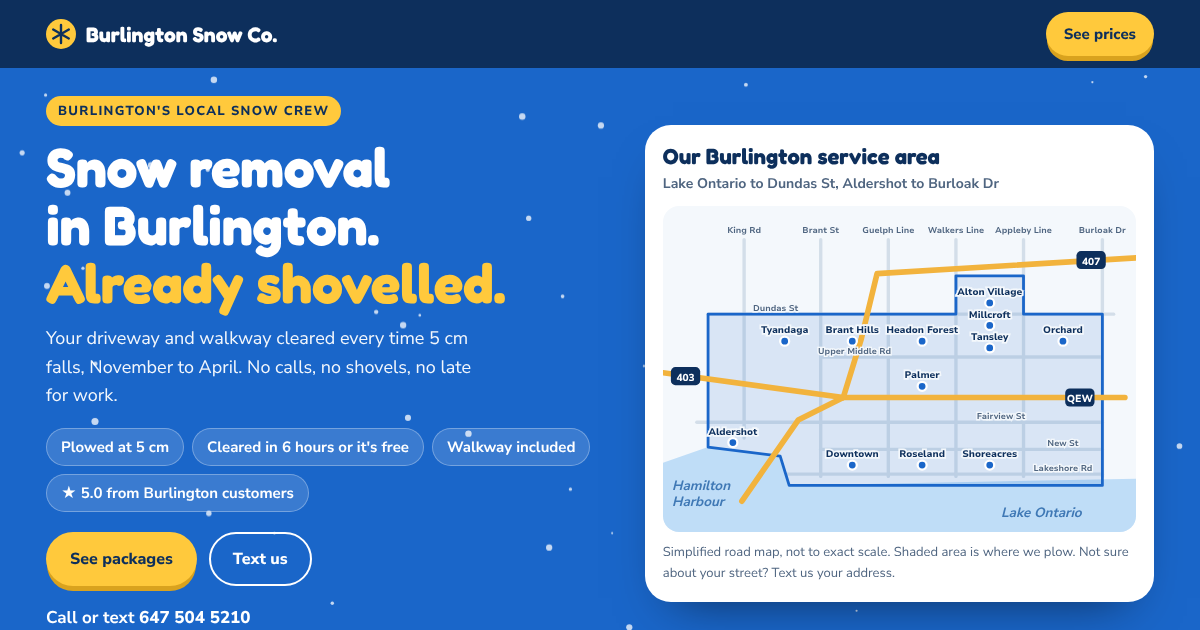
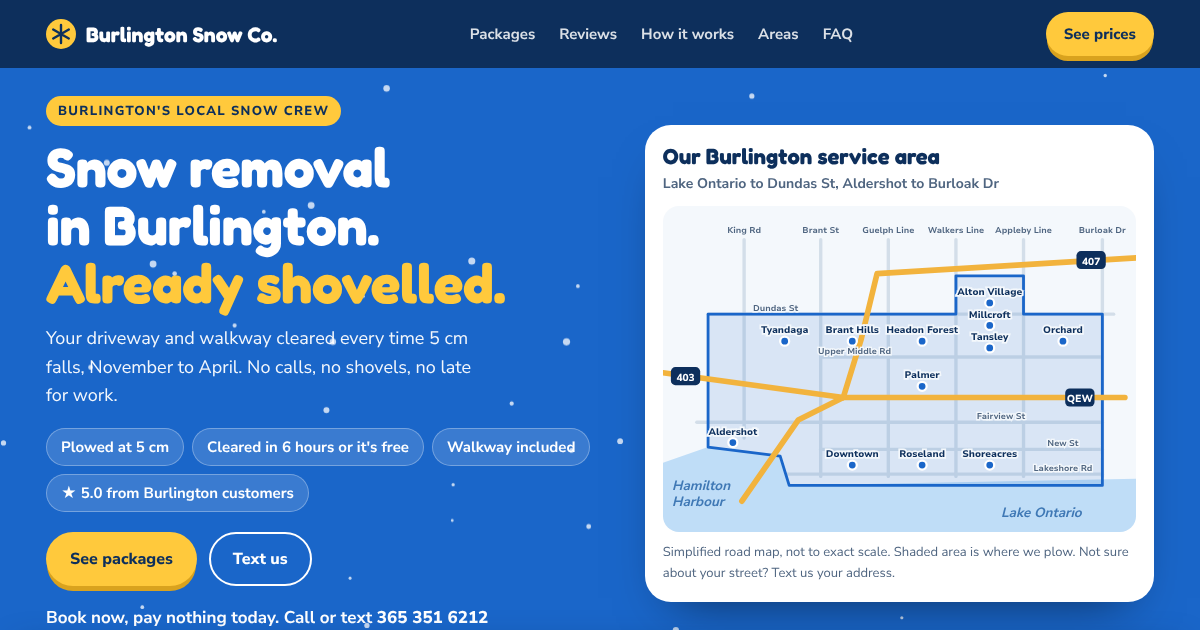
Switch to the business number 365 351 6212
Claude-Session: https://claude.ai/code/session_01EgcDJuKWegJa2CWbAiwTDC

Changed region(s): [[0.0308, 0.9651, 0.4008, 0.9952], [0.4008, 0.0302, 0.7092, 0.0603], [0.555, 0.9952, 0.5858, 1.0]]

diff --git a/index.html b/index.html
@@ -4,14 +4,14 @@
 <meta charset="utf-8">
 <meta name="viewport" content="width=device-width, initial-scale=1, viewport-fit=cover">
 <title>Snow Removal Burlington ON | From $499 a Season | Burlington Snow Co.</title>
-<meta name="description" content="Snow removal in Burlington, ON. Driveway and walkway cleared every time 5 cm falls, within 6 hours or it's free. Townhouse $499 a season. Text 647 504 5210.">
+<meta name="description" content="Snow removal in Burlington, ON. Driveway and walkway cleared every time 5 cm falls, within 6 hours or it's free. Townhouse $499 a season. Text 365 351 6212.">
 <meta name="robots" content="index, follow, max-image-preview:large">
 <link rel="canonical" href="https://burlingtonsnowco.ca/">
 <meta property="og:type" content="website">
 <meta property="og:locale" content="en_CA">
 <meta property="og:site_name" content="Burlington Snow Co.">
 <meta property="og:title" content="Burlington Snow Co. | Snow removal from $499 a season">
-<meta property="og:description" content="Driveway and walkway cleared every time 5 cm falls. Cleared in 6 hours or it's free. Text 647 504 5210.">
+<meta property="og:description" content="Driveway and walkway cleared every time 5 cm falls. Cleared in 6 hours or it's free. Text 365 351 6212.">
 <meta property="og:url" content="https://burlingtonsnowco.ca/">
 <meta property="og:image" content="https://burlingtonsnowco.ca/og-image.png">
 <meta property="og:image:width" content="1200">
@@ -26,7 +26,7 @@
 <link rel="icon" href="/logo.svg" type="image/svg+xml">
 <link rel="apple-touch-icon" href="/logo.png">
 <link rel="alternate" type="text/plain" href="/llms.txt" title="LLM summary">
-<script type="application/ld+json">{"@context": "https://schema.org", "@graph": [{"@type": ["LocalBusiness", "HomeAndConstructionBusiness"], "@id": "https://burlingtonsnowco.ca/#business", "name": "Burlington Snow Co.", "url": "https://burlingtonsnowco.ca/", "logo": "https://burlingtonsnowco.ca/logo.png", "image": "https://burlingtonsnowco.ca/og-image.png", "telephone": "+1-647-504-5210", "priceRange": "$499-$999 per season", "currenciesAccepted": "CAD", "description": "Seasonal residential snow removal in Burlington, Ontario. Driveway, walkway and front steps cleared every time 5 cm falls, November to April. Cleared within 6 hours of the snow stopping or the visit is free.", "address": {"@type": "PostalAddress", "addressLocality": "Burlington", "addressRegion": "ON", "addressCountry": "CA"}, "geo": {"@type": "GeoCoordinates", "latitude": 43.3255, "longitude": -79.799}, "areaServed": [{"@type": "City", "name": "Burlington", "containedInPlace": {"@type": "AdministrativeArea", "name": "Halton Region, Ontario"}}, {"@type": "Place", "name": "Aldershot, Burlington, ON"}, {"@type": "Place", "name": "Alton Village, Burlington, ON"}, {"@type": "Place", "name": "Brant Hills, Burlington, ON"}, {"@type": "Place", "name": "Downtown Burlington, Burlington, ON"}, {"@type": "Place", "name": "Headon Forest, Burlington, ON"}, {"@type": "Place", "name": "Millcroft, Burlington, ON"}, {"@type": "Place", "name": "Orchard, Burlington, ON"}, {"@type": "Place", "name": "Palmer, Burlington, ON"}, {"@type": "Place", "name": "Roseland, Burlington, ON"}, {"@type": "Place", "name": "Shoreacres, Burlington, ON"}, {"@type": "Place", "name": "Tansley, Burlington, ON"}, {"@type": "Place", "name": "Tyandaga, Burlington, ON"}], "openingHoursSpecification": [{"@type": "OpeningHoursSpecification", "dayOfWeek": ["Monday", "Tuesday", "Wednesday", "Thursday", "Friday", "Saturday", "Sunday"], "opens": "00:00", "closes": "23:59"}], "knowsAbout": ["Snow removal", "Driveway snow clearing", "Walkway shovelling", "Snow plowing", "Windrow clearing"], "hasOfferCatalog": {"@type": "OfferCatalog", "name": "Seasonal snow removal packages, driveway and walkway included", "itemListElement": [{"@type": "Offer", "itemOffered": {"@type": "Service", "serviceType": "Residential snow removal", "name": "Townhouse driveway and walkway, seasonal snow removal", "areaServed": "Burlington, ON"}, "price": "499", "priceCurrency": "CAD", "eligibleDuration": {"@type": "QuantitativeValue", "name": "November to April season"}}, {"@type": "Offer", "itemOffered": {"@type": "Service", "serviceType": "Residential snow removal", "name": "Single car driveway and walkway, seasonal snow removal", "areaServed": "Burlington, ON"}, "price": "649", "priceCurrency": "CAD", "eligibleDuration": {"@type": "QuantitativeValue", "name": "November to April season"}}, {"@type": "Offer", "itemOffered": {"@type": "Service", "serviceType": "Residential snow removal", "name": "Double car driveway and walkway, seasonal snow removal", "areaServed": "Burlington, ON"}, "price": "799", "priceCurrency": "CAD", "eligibleDuration": {"@type": "QuantitativeValue", "name": "November to April season"}}, {"@type": "Offer", "itemOffered": {"@type": "Service", "serviceType": "Residential snow removal", "name": "Large (5+ cars) driveway and walkway, seasonal snow removal", "areaServed": "Burlington, ON"}, "price": "999", "priceCurrency": "CAD", "eligibleDuration": {"@type": "QuantitativeValue", "name": "November to April season"}}]}}, {"@type": "WebSite", "@id": "https://burlingtonsnowco.ca/#website", "url": "https://burlingtonsnowco.ca/", "name": "Burlington Snow Co.", "inLanguage": "en-CA", "publisher": {"@id": "https://burlingtonsnowco.ca/#business"}}, {"@type": "FAQPage", "@id": "https://burlingtonsnowco.ca/#faq", "mainEntity": [{"@type": "Question", "name": "How much does snow removal cost in Burlington?", "acceptedAnswer": {"@type": "Answer", "text": "Our season plans run November to April and include the driveway, walkway and front steps. A townhouse is $499, a single car driveway is $649, a double car driveway is $799 and a large driveway (5 or more cars) is $999, plus HST. Commercial sites are quoted per site."}}, {"@type": "Question", "name": "Which parts of Burlington do you serve?", "acceptedAnswer": {"@type": "Answer", "text": "All of Burlington, from Aldershot to Burloak Drive and from Lake Ontario to Dundas Street, plus Alton Village. That includes Tyandaga, Brant Hills, Headon Forest, Millcroft, Tansley, Orchard, Palmer, Downtown, Roseland and Shoreacres."}}, {"@type": "Question", "name": "When do you come?", "acceptedAnswer": {"@type": "Answer", "text": "Every time 5 cm or more falls, November to April. You're cleared automatically. You don't need to call."}}, {"@type": "Question", "name": "What counts as the walkway?", "acceptedAnswer": {"@type": "Answer", "text": "The path from your driveway to your front door, plus the front steps."}}, {"@type": "Question", "name": "Do you offer any discounts?", "acceptedAnswer": {"@type": "Answer", "text": "Yes. Book with a neighbour on the same street and you each save $50 on your season plan. Just add their name and address when you book."}}, {"@type": "Question", "name": "Do you clear the snowbank the city plow leaves?", "acceptedAnswer": {"@type": "Answer", "text": "Yes. The end of your driveway is cleared on every visit."}}, {"@type": "Question", "name": "How do I pay?", "acceptedAnswer": {"@type": "Answer", "text": "Nothing is due when you book. Once we confirm your spot by text, you pay by Interac e-Transfer: half to start your season and half on January 1."}}, {"@type": "Question", "name": "Are you insured?", "acceptedAnswer": {"@type": "Answer", "text": "Yes. Burlington Snow Co. carries liability insurance for every property we clear."}}]}]}</script>
+<script type="application/ld+json">{"@context": "https://schema.org", "@graph": [{"@type": ["LocalBusiness", "HomeAndConstructionBusiness"], "@id": "https://burlingtonsnowco.ca/#business", "name": "Burlington Snow Co.", "url": "https://burlingtonsnowco.ca/", "logo": "https://burlingtonsnowco.ca/logo.png", "image": "https://burlingtonsnowco.ca/og-image.png", "telephone": "+1-365-351-6212", "priceRange": "$499-$999 per season", "currenciesAccepted": "CAD", "description": "Seasonal residential snow removal in Burlington, Ontario. Driveway, walkway and front steps cleared every time 5 cm falls, November to April. Cleared within 6 hours of the snow stopping or the visit is free.", "address": {"@type": "PostalAddress", "addressLocality": "Burlington", "addressRegion": "ON", "addressCountry": "CA"}, "geo": {"@type": "GeoCoordinates", "latitude": 43.3255, "longitude": -79.799}, "areaServed": [{"@type": "City", "name": "Burlington", "containedInPlace": {"@type": "AdministrativeArea", "name": "Halton Region, Ontario"}}, {"@type": "Place", "name": "Aldershot, Burlington, ON"}, {"@type": "Place", "name": "Alton Village, Burlington, ON"}, {"@type": "Place", "name": "Brant Hills, Burlington, ON"}, {"@type": "Place", "name": "Downtown Burlington, Burlington, ON"}, {"@type": "Place", "name": "Headon Forest, Burlington, ON"}, {"@type": "Place", "name": "Millcroft, Burlington, ON"}, {"@type": "Place", "name": "Orchard, Burlington, ON"}, {"@type": "Place", "name": "Palmer, Burlington, ON"}, {"@type": "Place", "name": "Roseland, Burlington, ON"}, {"@type": "Place", "name": "Shoreacres, Burlington, ON"}, {"@type": "Place", "name": "Tansley, Burlington, ON"}, {"@type": "Place", "name": "Tyandaga, Burlington, ON"}], "openingHoursSpecification": [{"@type": "OpeningHoursSpecification", "dayOfWeek": ["Monday", "Tuesday", "Wednesday", "Thursday", "Friday", "Saturday", "Sunday"], "opens": "00:00", "closes": "23:59"}], "knowsAbout": ["Snow removal", "Driveway snow clearing", "Walkway shovelling", "Snow plowing", "Windrow clearing"], "hasOfferCatalog": {"@type": "OfferCatalog", "name": "Seasonal snow removal packages, driveway and walkway included", "itemListElement": [{"@type": "Offer", "itemOffered": {"@type": "Service", "serviceType": "Residential snow removal", "name": "Townhouse driveway and walkway, seasonal snow removal", "areaServed": "Burlington, ON"}, "price": "499", "priceCurrency": "CAD", "eligibleDuration": {"@type": "QuantitativeValue", "name": "November to April season"}}, {"@type": "Offer", "itemOffered": {"@type": "Service", "serviceType": "Residential snow removal", "name": "Single car driveway and walkway, seasonal snow removal", "areaServed": "Burlington, ON"}, "price": "649", "priceCurrency": "CAD", "eligibleDuration": {"@type": "QuantitativeValue", "name": "November to April season"}}, {"@type": "Offer", "itemOffered": {"@type": "Service", "serviceType": "Residential snow removal", "name": "Double car driveway and walkway, seasonal snow removal", "areaServed": "Burlington, ON"}, "price": "799", "priceCurrency": "CAD", "eligibleDuration": {"@type": "QuantitativeValue", "name": "November to April season"}}, {"@type": "Offer", "itemOffered": {"@type": "Service", "serviceType": "Residential snow removal", "name": "Large (5+ cars) driveway and walkway, seasonal snow removal", "areaServed": "Burlington, ON"}, "price": "999", "priceCurrency": "CAD", "eligibleDuration": {"@type": "QuantitativeValue", "name": "November to April season"}}]}}, {"@type": "WebSite", "@id": "https://burlingtonsnowco.ca/#website", "url": "https://burlingtonsnowco.ca/", "name": "Burlington Snow Co.", "inLanguage": "en-CA", "publisher": {"@id": "https://burlingtonsnowco.ca/#business"}}, {"@type": "FAQPage", "@id": "https://burlingtonsnowco.ca/#faq", "mainEntity": [{"@type": "Question", "name": "How much does snow removal cost in Burlington?", "acceptedAnswer": {"@type": "Answer", "text": "Our season plans run November to April and include the driveway, walkway and front steps. A townhouse is $499, a single car driveway is $649, a double car driveway is $799 and a large driveway (5 or more cars) is $999, plus HST. Commercial sites are quoted per site."}}, {"@type": "Question", "name": "Which parts of Burlington do you serve?", "acceptedAnswer": {"@type": "Answer", "text": "All of Burlington, from Aldershot to Burloak Drive and from Lake Ontario to Dundas Street, plus Alton Village. That includes Tyandaga, Brant Hills, Headon Forest, Millcroft, Tansley, Orchard, Palmer, Downtown, Roseland and Shoreacres."}}, {"@type": "Question", "name": "When do you come?", "acceptedAnswer": {"@type": "Answer", "text": "Every time 5 cm or more falls, November to April. You're cleared automatically. You don't need to call."}}, {"@type": "Question", "name": "What counts as the walkway?", "acceptedAnswer": {"@type": "Answer", "text": "The path from your driveway to your front door, plus the front steps."}}, {"@type": "Question", "name": "Do you offer any discounts?", "acceptedAnswer": {"@type": "Answer", "text": "Yes. Book with a neighbour on the same street and you each save $50 on your season plan. Just add their name and address when you book."}}, {"@type": "Question", "name": "Do you clear the snowbank the city plow leaves?", "acceptedAnswer": {"@type": "Answer", "text": "Yes. The end of your driveway is cleared on every visit."}}, {"@type": "Question", "name": "How do I pay?", "acceptedAnswer": {"@type": "Answer", "text": "Nothing is due when you book. Once we confirm your spot by text, you pay by Interac e-Transfer: half to start your season and half on January 1."}}, {"@type": "Question", "name": "Are you insured?", "acceptedAnswer": {"@type": "Answer", "text": "Yes. Burlington Snow Co. carries liability insurance for every property we clear."}}]}]}</script>
 <style>:root{color-scheme:light;padding-top:env(safe-area-inset-top,0px);padding-bottom:env(safe-area-inset-bottom,0px)}body{margin:0;font:14px system-ui,sans-serif}img{max-width:100%}[hidden]{display:none!important}</style>
 </head>
 <body>
@@ -300,9 +300,9 @@ footer strong{color:#fff}
         </ul>
         <div class="btns">
           <a class="btn btn-sun" href="#packages">See packages</a>
-          <a class="btn btn-line" href="sms:+16475045210?&amp;body=Hi%2C%20I%27d%20like%20snow%20removal.%20My%20address%20is%20">Text us</a>
+          <a class="btn btn-line" href="sms:+13653516212?&amp;body=Hi%2C%20I%27d%20like%20snow%20removal.%20My%20address%20is%20">Text us</a>
         </div>
-        <p class="phone">Book now, pay nothing today. Call or text <b>647 504 5210</b></p>
+        <p class="phone">Book now, pay nothing today. Call or text <b>365 351 6212</b></p>
       </div>
       <figure class="mapcard" id="map">
         <figcaption><b>Our Burlington service area</b><span>Lake Ontario to Dundas St, Aldershot to Burloak Dr</span></figcaption>
@@ -457,7 +457,7 @@ footer strong{color:#fff}
           </div>
           <div class="done" id="done" hidden>
             <h3 id="doneTitle">Nearly done. Send this text.</h3>
-            <p id="doneText">Tap the button to open Messages with this filled in. If it doesn't open, copy it and text it to <strong>647 504 5210</strong>.</p>
+            <p id="doneText">Tap the button to open Messages with this filled in. If it doesn't open, copy it and text it to <strong>365 351 6212</strong>.</p>
             <pre class="msg" id="msg"></pre>
             <div class="row">
               <a class="btn btn-blue" id="sendSms" href="#">Open in Messages</a>
@@ -470,9 +470,9 @@ footer strong{color:#fff}
           <div class="panel">
             <h3>Rather just text?</h3>
             <p>Send your address and we'll reply with your price.</p>
-            <span class="num" id="numText">647 504 5210</span>
+            <span class="num" id="numText">365 351 6212</span>
             <div class="row">
-              <a class="btn btn-blue btn-sm" href="sms:+16475045210?&amp;body=Hi%2C%20I%27d%20like%20a%20snow%20removal%20price.%20My%20address%20is%20">Text us</a>
+              <a class="btn btn-blue btn-sm" href="sms:+13653516212?&amp;body=Hi%2C%20I%27d%20like%20a%20snow%20removal%20price.%20My%20address%20is%20">Text us</a>
               <button class="btn btn-line btn-sm" type="button" id="copyNum" style="color:var(--blue)">Copy number</button>
             </div>
           </div>
@@ -515,21 +515,21 @@ footer strong{color:#fff}
 <footer>
   <div class="wrap">
     <span><strong>Burlington Snow Co.</strong> Snow removal in Burlington, Ontario</span>
-    <span>Call or text 647 504 5210</span>
+    <span>Call or text 365 351 6212</span>
   </div>
 </footer>
 
 <div class="dock" role="region" aria-label="Your package">
   <div class="in">
     <div class="sum"><small id="dockName">Townhouse · with walkway</small><b id="dockPrice">$499</b> <small style="display:inline" id="dockUnit">per season</small></div>
-    <a class="btn btn-line btn-sm txt" href="sms:+16475045210?&amp;body=Hi%2C%20I%27d%20like%20snow%20removal.%20My%20address%20is%20">Text us</a>
+    <a class="btn btn-line btn-sm txt" href="sms:+13653516212?&amp;body=Hi%2C%20I%27d%20like%20snow%20removal.%20My%20address%20is%20">Text us</a>
     <a class="btn btn-sun btn-sm" href="#book">Book this</a>
   </div>
 </div>
 
 <script>
 (function(){
-  var NUM = "+16475045210";
+  var NUM = "+13653516212";
   // Google Sheet booking endpoint (Apps Script web app). Empty = text-only booking.
   var BOOKING_URL = "https://script.google.com/macros/s/AKfycbyOqlVs52f9rGWwjSjqHdhHxilT79-SebYbwAKdN6JQ7AbemxvTZFgM0Zox55yq9hJgfg/exec";
   if(BOOKING_URL) document.getElementById("submitBtn").textContent = "Book my package";
@@ -688,7 +688,7 @@ footer strong{color:#fff}
     try { navigator.clipboard.writeText(text).then(ok, sel); } catch(e){ sel(); }
   }
   document.getElementById("copyMsg").addEventListener("click", function(){ copy(msgEl.textContent, this, msgEl); });
-  document.getElementById("copyNum").addEventListener("click", function(){ copy("647 504 5210", this, document.getElementById("numText")); });
+  document.getElementById("copyNum").addEventListener("click", function(){ copy("365 351 6212", this, document.getElementById("numText")); });
 
   render();
   // map copy for phones, in the areas section

diff --git a/src/page.html b/src/page.html
@@ -271,9 +271,9 @@ footer strong{color:#fff}
         </ul>
         <div class="btns">
           <a class="btn btn-sun" href="#packages">See packages</a>
-          <a class="btn btn-line" href="sms:+16475045210?&amp;body=Hi%2C%20I%27d%20like%20snow%20removal.%20My%20address%20is%20">Text us</a>
+          <a class="btn btn-line" href="sms:+13653516212?&amp;body=Hi%2C%20I%27d%20like%20snow%20removal.%20My%20address%20is%20">Text us</a>
         </div>
-        <p class="phone">Book now, pay nothing today. Call or text <b>647 504 5210</b></p>
+        <p class="phone">Book now, pay nothing today. Call or text <b>365 351 6212</b></p>
       </div>
       <figure class="mapcard" id="map">
         <figcaption><b>Our Burlington service area</b><span>Lake Ontario to Dundas St, Aldershot to Burloak Dr</span></figcaption>
@@ -428,7 +428,7 @@ footer strong{color:#fff}
           </div>
           <div class="done" id="done" hidden>
             <h3 id="doneTitle">Nearly done. Send this text.</h3>
-            <p id="doneText">Tap the button to open Messages with this filled in. If it doesn't open, copy it and text it to <strong>647 504 5210</strong>.</p>
+            <p id="doneText">Tap the button to open Messages with this filled in. If it doesn't open, copy it and text it to <strong>365 351 6212</strong>.</p>
             <pre class="msg" id="msg"></pre>
             <div class="row">
               <a class="btn btn-blue" id="sendSms" href="#">Open in Messages</a>
@@ -441,9 +441,9 @@ footer strong{color:#fff}
           <div class="panel">
             <h3>Rather just text?</h3>
             <p>Send your address and we'll reply with your price.</p>
-            <span class="num" id="numText">647 504 5210</span>
+            <span class="num" id="numText">365 351 6212</span>
             <div class="row">
-              <a class="btn btn-blue btn-sm" href="sms:+16475045210?&amp;body=Hi%2C%20I%27d%20like%20a%20snow%20removal%20price.%20My%20address%20is%20">Text us</a>
+              <a class="btn btn-blue btn-sm" href="sms:+13653516212?&amp;body=Hi%2C%20I%27d%20like%20a%20snow%20removal%20price.%20My%20address%20is%20">Text us</a>
               <button class="btn btn-line btn-sm" type="button" id="copyNum" style="color:var(--blue)">Copy number</button>
             </div>
           </div>
@@ -486,21 +486,21 @@ footer strong{color:#fff}
 <footer>
   <div class="wrap">
     <span><strong>Burlington Snow Co.</strong> Snow removal in Burlington, Ontario</span>
-    <span>Call or text 647 504 5210</span>
+    <span>Call or text 365 351 6212</span>
   </div>
 </footer>
 
 <div class="dock" role="region" aria-label="Your package">
   <div class="in">
     <div class="sum"><small id="dockName">Townhouse · with walkway</small><b id="dockPrice">$499</b> <small style="display:inline" id="dockUnit">per season</small></div>
-    <a class="btn btn-line btn-sm txt" href="sms:+16475045210?&amp;body=Hi%2C%20I%27d%20like%20snow%20removal.%20My%20address%20is%20">Text us</a>
+    <a class="btn btn-line btn-sm txt" href="sms:+13653516212?&amp;body=Hi%2C%20I%27d%20like%20snow%20removal.%20My%20address%20is%20">Text us</a>
     <a class="btn btn-sun btn-sm" href="#book">Book this</a>
   </div>
 </div>
 
 <script>
 (function(){
-  var NUM = "+16475045210";
+  var NUM = "+13653516212";
   // Google Sheet booking endpoint (Apps Script web app). Empty = text-only booking.
   var BOOKING_URL = "";
   if(BOOKING_URL) document.getElementById("submitBtn").textContent = "Book my package";
@@ -659,7 +659,7 @@ footer strong{color:#fff}
     try { navigator.clipboard.writeText(text).then(ok, sel); } catch(e){ sel(); }
   }
   document.getElementById("copyMsg").addEventListener("click", function(){ copy(msgEl.textContent, this, msgEl); });
-  document.getElementById("copyNum").addEventListener("click", function(){ copy("647 504 5210", this, document.getElementById("numText")); });
+  document.getElementById("copyNum").addEventListener("click", function(){ copy("365 351 6212", this, document.getElementById("numText")); });
 
   render();
   // map copy for phones, in the areas section

diff --git a/src/build.py b/src/build.py
@@ -12,7 +12,7 @@ body = re.sub(r'<meta name="description"[^>]*>\n', '', body, count=1)
 HOODS = ["Aldershot","Alton Village","Brant Hills","Downtown Burlington","Headon Forest","Millcroft","Orchard","Palmer","Roseland","Shoreacres","Tansley","Tyandaga"]
 PRICES = [("Townhouse",499),("Single car",649),("Double car",799),("Large (5+ cars)",999)]
 biz = {"@type":["LocalBusiness","HomeAndConstructionBusiness"],"@id":D+"#business","name":"Burlington Snow Co.","url":D,
- "logo":D+"logo.png","image":D+"og-image.png","telephone":"+1-647-504-5210","priceRange":"$499-$999 per season","currenciesAccepted":"CAD",
+ "logo":D+"logo.png","image":D+"og-image.png","telephone":"+1-365-351-6212","priceRange":"$499-$999 per season","currenciesAccepted":"CAD",
  "description":"Seasonal residential snow removal in Burlington, Ontario. Driveway, walkway and front steps cleared every time 5 cm falls, November to April. Cleared within 6 hours of the snow stopping or the visit is free.",
  "address":{"@type":"PostalAddress","addressLocality":"Burlington","addressRegion":"ON","addressCountry":"CA"},
  "geo":{"@type":"GeoCoordinates","latitude":43.3255,"longitude":-79.799},
@@ -25,7 +25,7 @@ site = {"@type":"WebSite","@id":D+"#website","url":D,"name":"Burlington Snow Co.
 faq = [{"@type":"Question","name":re.sub('<[^>]+>','',q),"acceptedAnswer":{"@type":"Answer","text":re.sub('<[^>]+>','',a)}}
        for q,a in re.findall(r'<details[^>]*><summary>(.*?)</summary><p>(.*?)</p></details>', body)]
 graph = {"@context":"https://schema.org","@graph":[biz, site, {"@type":"FAQPage","@id":D+"#faq","mainEntity":faq}]}
-desc = "Snow removal in Burlington, ON. Driveway and walkway cleared every time 5 cm falls, within 6 hours or it's free. Townhouse $499 a season. Text 647 504 5210."
+desc = "Snow removal in Burlington, ON. Driveway and walkway cleared every time 5 cm falls, within 6 hours or it's free. Townhouse $499 a season. Text 365 351 6212."
 head = f'''<!doctype html>
 <html lang="en-CA">
 <head>
@@ -39,7 +39,7 @@ head = f'''<!doctype html>
 <meta property="og:locale" content="en_CA">
 <meta property="og:site_name" content="Burlington Snow Co.">
 <meta property="og:title" content="Burlington Snow Co. | Snow removal from $499 a season">
-<meta property="og:description" content="Driveway and walkway cleared every time 5 cm falls. Cleared in 6 hours or it's free. Text 647 504 5210.">
+<meta property="og:description" content="Driveway and walkway cleared every time 5 cm falls. Cleared in 6 hours or it's free. Text 365 351 6212.">
 <meta property="og:url" content="{D}">
 <meta property="og:image" content="{D}og-image.png">
 <meta property="og:image:width" content="1200">
@@ -71,7 +71,7 @@ open(f'{out}/llms.txt','w').write(f"""# Burlington Snow Co.
 > Burlington Snow Co. is a local, insured snow removal company in Burlington, Ontario, Canada. Season plans (November to April) clear the driveway, walkway and front steps every time 5 cm or more of snow falls, including the snowbank the city plow leaves. Driveways are cleared within 6 hours of the snow stopping (12 hours for storms over 20 cm) or that visit is free.
 
 ## Contact
-- Call or text: 647 504 5210
+- Call or text: 365 351 6212
 - Website: {D}
 - Service area: Burlington, Ontario only
 
